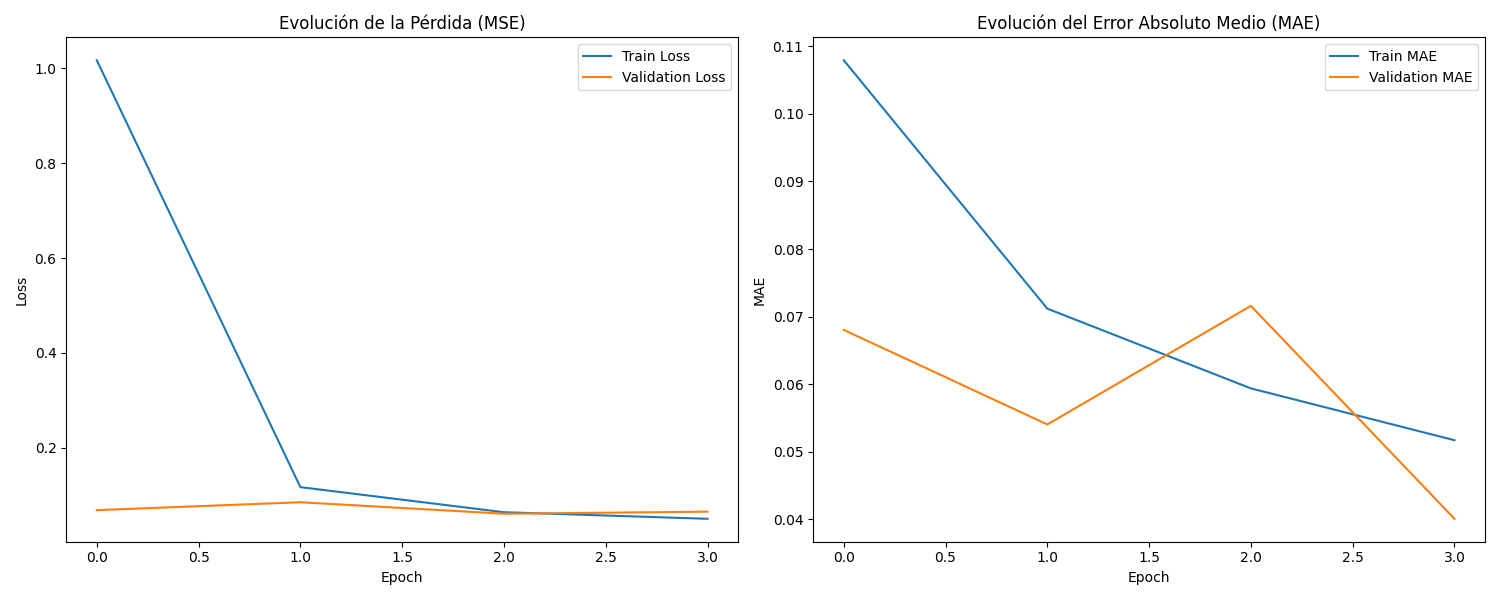
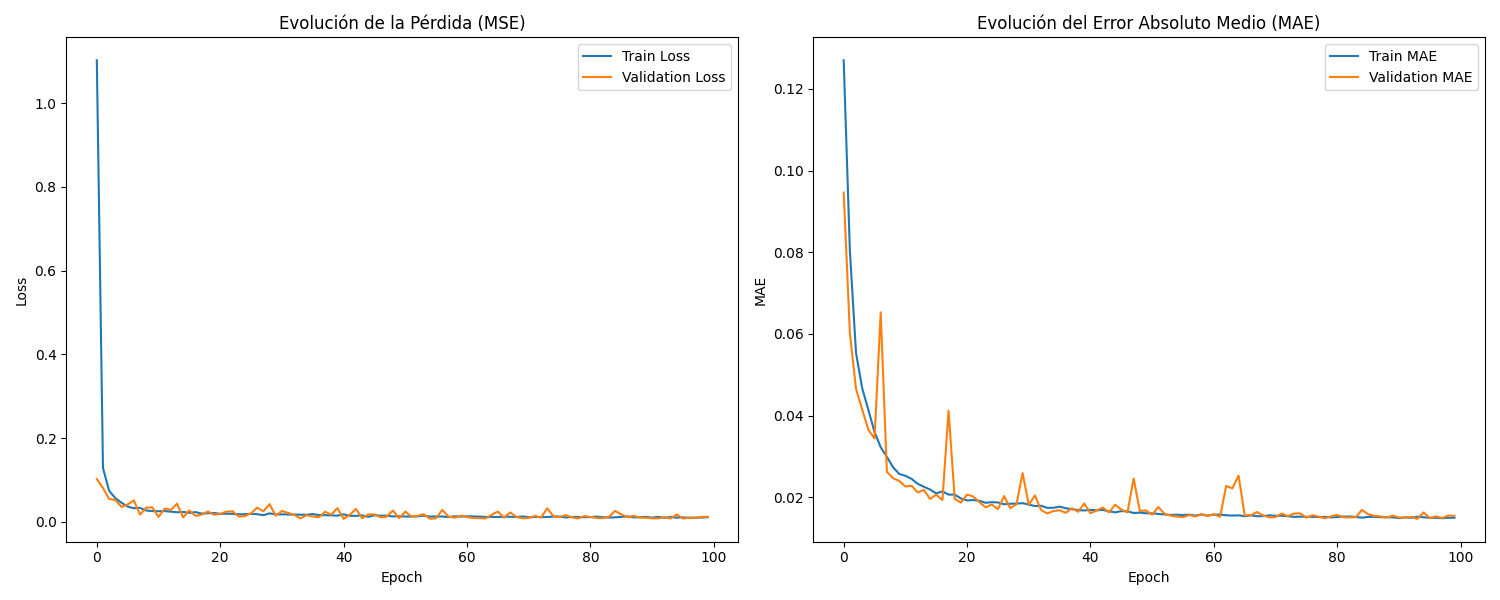
Se entrena 100 epoch el modelo regresor

diff --git a/predict_net.py b/predict_net.py
@@ -8,7 +8,7 @@ matplotlib.use('Agg')  # Configuración para entornos no interactivos
 import matplotlib.pyplot as plt
 
 # ========= CONFIGURACIÓN =========
-EPOCHS = 4
+EPOCHS = 100
 VALIDATION_SPLIT = 0.1
 TEST_SIZE = 0.1
 RANDOM_STATE = 137
